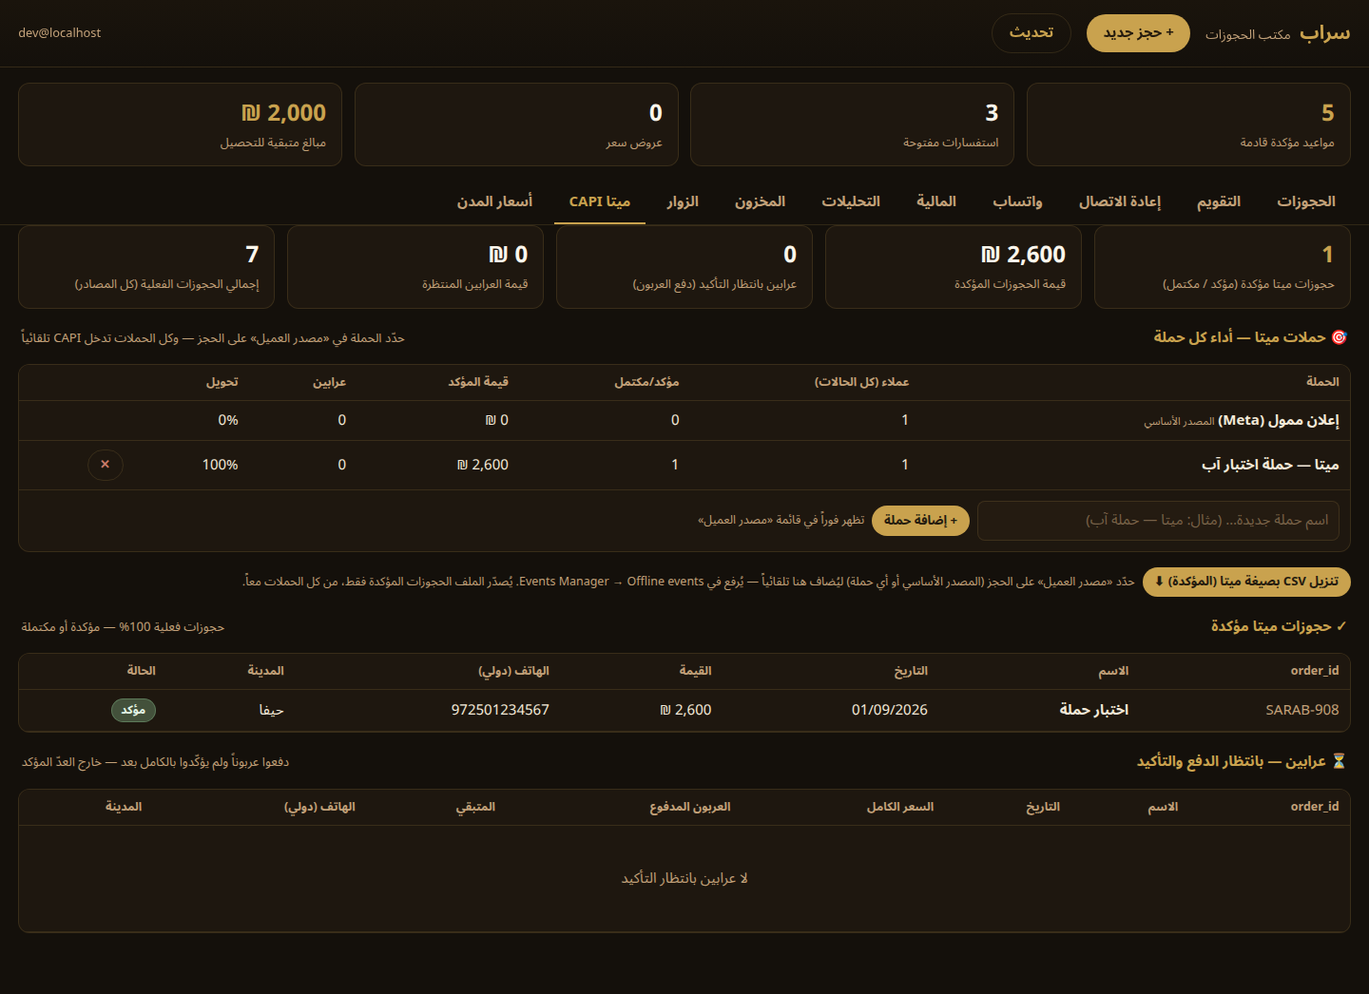
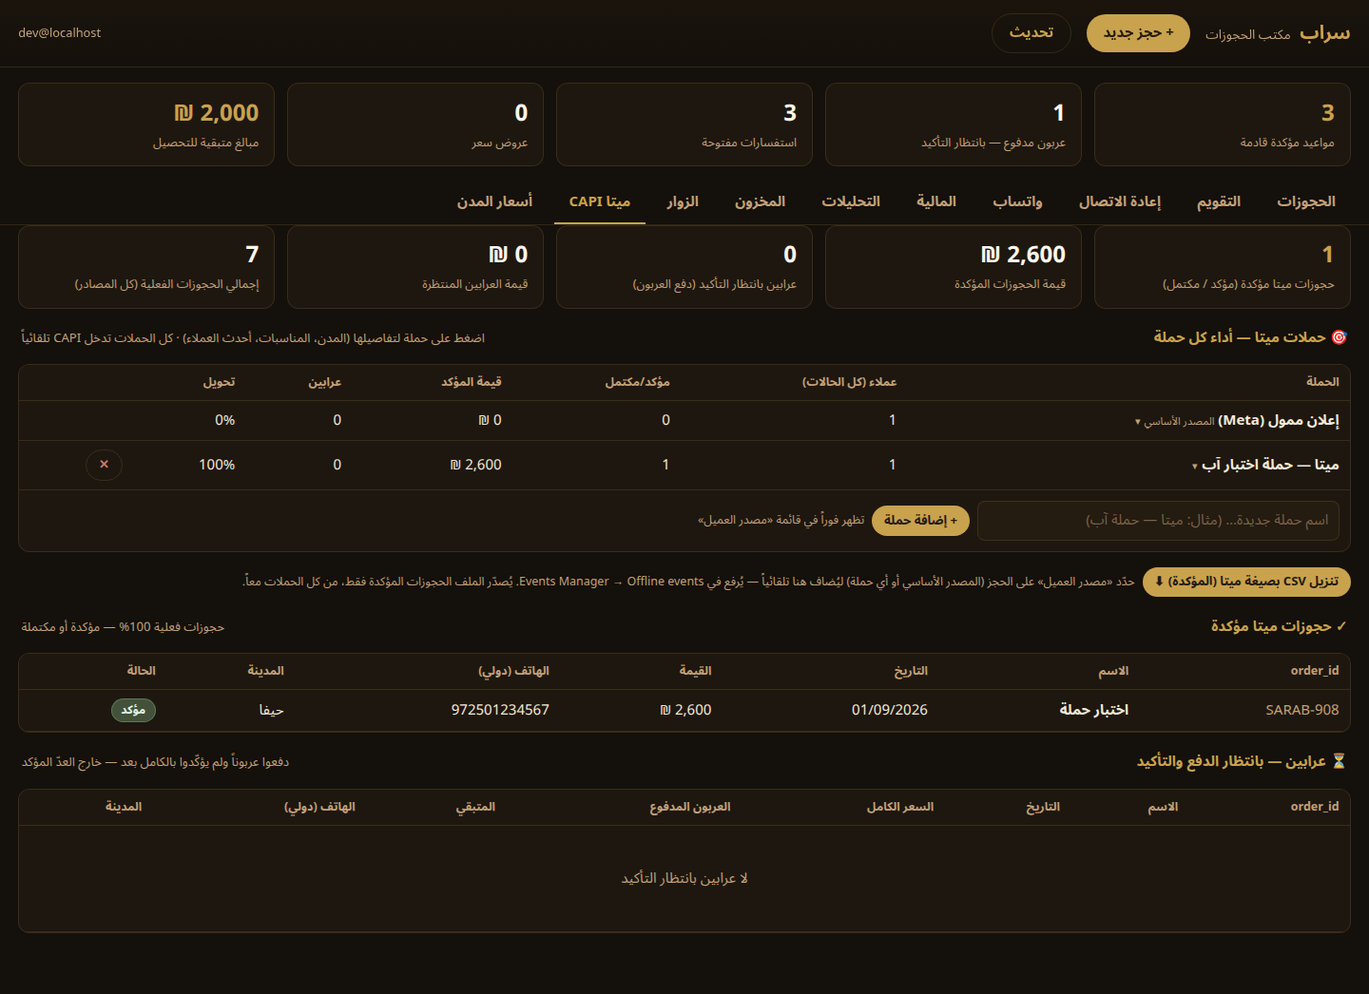
Office: client_city (سكن العميل) field + city×source analytics + expandable CAPI campaign rows

diff --git a/public/office/index.html b/public/office/index.html
@@ -1245,22 +1245,55 @@ function renderInsights() {
     ${insScope.year || insScope.month ? '<div class="secnote">العملاء هنا = من تاريخ مناسبتهم ضمن الفترة المختارة</div>' : ''}`)}
 
     ${sec('ins_cities', '🏙 المدن — من أين يأتي العمل؟',
-      `${s.cities.length} مدينة · مرتّبة حسب عدد العملاء`,
+      `${s.cities.length} مدينة · اضغط على مدينة لعرض مصادر عملائها`,
       `<div class="tablebox"><table style="min-width:0">
       <thead><tr><th>المدينة</th><th>العملاء</th><th>حجوزات فعلية</th><th>نسبة التحويل</th><th>الإيرادات (أسعار)</th></tr></thead>
-      <tbody>${s.cities.map((c) => `<tr>
-        <td><b>${esc(c.k)}</b></td>
+      <tbody>${s.cities.map((c, i) => {
+        const srcs = (s.city_sources || []).filter((x) => x.k === c.k);
+        return `<tr data-cx="${i}" style="cursor:pointer">
+        <td><b>${esc(c.k)}</b> <span class="muted" style="font-size:.68rem">▾ المصادر</span></td>
         <td class="num">${c.clients}</td>
         <td class="num">${c.booked}</td>
         <td class="num">${c.clients ? (c.booked / c.clients * 100).toFixed(0) : 0}%</td>
         <td class="num">${money(c.revenue)}</td>
-      </tr>`).join('') || '<tr><td colspan="5"><div class="empty">لا بيانات بعد</div></td></tr>'}</tbody>
+      </tr>
+      <tr data-cxd="${i}" style="display:none"><td colspan="5" style="background:var(--panel-2);padding:.5rem .8rem">
+        <b style="font-size:.78rem">من أين جاء عملاء ${esc(c.k)}؟</b>
+        <table style="min-width:0;margin-top:.35rem">
+          <thead><tr><th>المصدر</th><th>العملاء</th><th>حجوزات مؤكدة</th><th>الإيرادات</th></tr></thead>
+          <tbody>${srcs.map((x) => `<tr>
+            <td>${esc(x.src)}</td>
+            <td class="num">${x.clients}</td>
+            <td class="num">${x.booked}</td>
+            <td class="num">${money(x.revenue)}</td>
+          </tr>`).join('') || '<tr><td colspan="4"><div class="empty">لا بيانات مصدر</div></td></tr>'}</tbody>
+        </table>
+      </td></tr>`;
+      }).join('') || '<tr><td colspan="5"><div class="empty">لا بيانات بعد</div></td></tr>'}</tbody>
       ${s.cities.length ? `<tfoot><tr><td>المجموع (${s.cities.length} مدينة)</td>
         <td class="num">${sumCol(s.cities, 'clients')}</td>
         <td class="num">${sumCol(s.cities, 'booked')}</td>
         <td class="num">${conv}%</td>
         <td class="num">${money(sumCol(s.cities, 'revenue'))}</td></tr></tfoot>` : ''}
-    </table></div>`)}
+    </table>
+    <div class="secnote">المدينة هنا = مدينة المناسبة (مكان الحدث) · اضغط على أي مدينة لتفصيل مصادر عملائها — أين تنجح الإعلانات؟</div></div>`)}
+
+    ${sec('ins_ccity', '🏠 مدن العملاء — أين يسكنون؟',
+      (s.client_cities || []).length
+        ? `${s.client_cities.length} مدينة · حسب حقل «مدينة العميل (السكن)» في بطاقة الحجز`
+        : 'حقل جديد في بطاقة الحجز — يُعبّأ يدوياً',
+      (s.client_cities || []).length ? `<div class="tablebox"><table style="min-width:0">
+      <thead><tr><th>مدينة السكن</th><th>العملاء</th><th>حجوزات فعلية</th><th>الإيرادات (أسعار)</th></tr></thead>
+      <tbody>${s.client_cities.map((c) => `<tr>
+        <td><b>${esc(c.k)}</b></td>
+        <td class="num">${c.clients}</td>
+        <td class="num">${c.booked}</td>
+        <td class="num">${money(c.revenue)}</td>
+      </tr>`).join('')}</tbody>
+    </table>
+    <div class="secnote">يُحسب فقط لمن عُبّئت لهم «مدينة العميل» — مدينة المناسبة تبقى في الجدول أعلاه</div></div>`
+      : `<div class="empty" style="padding:1rem">حقل «مدينة العميل (السكن)» الجديد ما زال فارغاً.<br>
+         افتح أي حجز واكتب مدينة سكن العميل (حين تختلف عن مدينة المناسبة) — وسيظهر التحليل هنا تلقائياً.</div>`)}
 
     ${sec('ins_occ', '🎉 أنواع المناسبات',
       `${s.occasions.length} نوعاً · أيها يجلب أكثر حجوزات وإيرادات؟`,
@@ -1313,6 +1346,11 @@ function renderInsights() {
     setScope(insScope.year, r.dataset.mrow === insScope.month ? '' : r.dataset.mrow));
   // للتحصيل and بيانات ناقصة rows open the booking itself.
   $$('tr[data-open]', box).forEach((r) => r.onclick = () => openDrawerById(Number(r.dataset.open)));
+  // A city row unfolds its per-source breakdown right underneath.
+  $$('tr[data-cx]', box).forEach((r) => r.onclick = () => {
+    const d = $(`tr[data-cxd="${r.dataset.cx}"]`, box);
+    if (d) d.style.display = d.style.display === 'none' ? '' : 'none';
+  });
   $('#insCsv', box).onclick = () => {
     const q = (v) => `"${String(v ?? '').replace(/"/g, '""')}"`;
     const L = [];
@@ -1335,6 +1373,11 @@ function renderInsights() {
       s.made.map((r) => [r.k, r.n, r.dep]));
     sec(`المدن — ${scopeLabel}`, ['المدينة', 'العملاء', 'حجوزات مؤكدة', 'الإيرادات'],
       s.cities.map((c) => [c.k, c.clients, c.booked, c.revenue]));
+    sec(`المدن × المصدر — ${scopeLabel}`, ['المدينة', 'المصدر', 'العملاء', 'حجوزات مؤكدة', 'الإيرادات'],
+      (s.city_sources || []).map((r) => [r.k, r.src, r.clients, r.booked, r.revenue]));
+    if ((s.client_cities || []).length)
+      sec(`مدن العملاء (السكن) — ${scopeLabel}`, ['مدينة السكن', 'العملاء', 'حجوزات مؤكدة', 'الإيرادات'],
+        s.client_cities.map((c) => [c.k, c.clients, c.booked, c.revenue]));
     sec(`المناسبات — ${scopeLabel}`, ['النوع', 'العملاء', 'حجوزات مؤكدة', 'الإيرادات'],
       s.occasions.map((c) => [c.k, c.clients, c.booked, c.revenue]));
     sec(`المصادر — ${scopeLabel}`, ['المصدر', 'العملاء', 'حجوزات مؤكدة'],
@@ -1571,6 +1614,72 @@ function campaignStats() {
   return [...byCamp.values()];
 }
 
+// Every Meta booking belongs to exactly one campaign row — the one carried in مصدر
+// العميل, else the base Meta entry (same folding rule as campaignStats).
+function campaignRowsOf(camp) {
+  const named = new Set(metaSources());
+  return CAPI_ROWS.filter((r) => fromMeta(r) && (named.has(r.lead_source) ? r.lead_source : LEGACY_META) === camp);
+}
+
+// What unfolds under a campaign row: which cities the campaign actually books in
+// (the ad-targeting question), the clients' home cities once the owner fills them,
+// the occasions it attracts, the funnel by status, and the latest leads it brought.
+function campaignDetailHtml(camp) {
+  const rows = campaignRowsOf(camp);
+  if (!rows.length) return '<div class="empty">لا عملاء على هذه الحملة بعد</div>';
+  const agg = (field) => {
+    const m = new Map();
+    for (const r of rows) {
+      const k = String(r[field] || '').trim() || 'غير محدد';
+      const s = m.get(k) || { k, leads: 0, conf: 0, adv: 0, val: 0 };
+      s.leads++;
+      if (r.status === 'مؤكد' || r.status === 'مكتمل') { s.conf++; s.val += Number(r.price) || 0; }
+      else if (r.status === 'دفع العربون') s.adv++;
+      m.set(k, s);
+    }
+    return [...m.values()].sort((a, b) => b.conf - a.conf || b.leads - a.leads);
+  };
+  const mini = (title, rows2) => `<div class="tablebox" style="flex:1 1 240px;min-width:0">
+    <b style="display:block;padding:.45rem .7rem .1rem;font-size:.8rem">${title}</b>
+    <table style="min-width:0">
+      <thead><tr><th>المدينة/النوع</th><th>عملاء</th><th>مؤكد</th><th>عربون</th><th>قيمة المؤكد</th></tr></thead>
+      <tbody>${rows2.map((c) => `<tr>
+        <td>${esc(c.k)}</td>
+        <td class="num">${c.leads}</td>
+        <td class="num">${c.conf || ''}</td>
+        <td class="num">${c.adv || ''}</td>
+        <td class="num">${c.val ? money(c.val) : ''}</td>
+      </tr>`).join('')}</tbody>
+    </table></div>`;
+  const byStatus = new Map();
+  for (const r of rows) byStatus.set(r.status, (byStatus.get(r.status) || 0) + 1);
+  const homes = agg('client_city').filter((c) => c.k !== 'غير محدد');
+  const recent = [...rows]
+    .sort((a, b) => String(b.added_at || b.created_at || '').localeCompare(String(a.added_at || a.created_at || '')))
+    .slice(0, 8);
+  return `
+    <div class="chips" style="padding:.15rem 0 .45rem">${[...byStatus.entries()].map(([st, n]) =>
+      `<span class="chip" style="cursor:default">${esc(st)}: <b>${n}</b></span>`).join(' ')}</div>
+    <div style="display:flex;flex-wrap:wrap;gap:.6rem">
+      ${mini('🏙 مدن المناسبات — أين تحجز هذه الحملة؟', agg('city'))}
+      ${homes.length ? mini('🏠 مدن العملاء (السكن)', homes) : ''}
+      ${mini('🎉 أنواع المناسبات', agg('occasion'))}
+      <div class="tablebox" style="flex:1 1 280px;min-width:0">
+        <b style="display:block;padding:.45rem .7rem .1rem;font-size:.8rem">🕓 أحدث العملاء — اضغط لفتح الحجز</b>
+        <table style="min-width:0">
+          <thead><tr><th>الاسم</th><th>تاريخ المناسبة</th><th>المدينة</th><th>الحالة</th><th>السعر</th></tr></thead>
+          <tbody>${recent.map((r) => `<tr data-open="${r.id}" style="cursor:pointer">
+            <td><b>${esc(fullName(r) || '—')}</b></td>
+            <td class="num">${dmy(r.event_date)}</td>
+            <td>${esc(r.city || '—')}</td>
+            <td>${badge(r.status)}</td>
+            <td class="num">${money(r.price)}</td>
+          </tr>`).join('')}</tbody>
+        </table></div>
+    </div>
+    ${homes.length ? '' : '<div class="secnote">💡 حقل «مدينة العميل (السكن)» الجديد فارغ بعد — عبِّئه في بطاقة الحجز ليظهر هنا تحليل مدن السكن أيضاً</div>'}`;
+}
+
 async function addCampaign() {
   const inp = $('#campName');
   const v = (inp.value || '').trim();
@@ -1599,18 +1708,19 @@ function renderCapi() {
       <div class="kpi"><b>${CAPI_ALL}</b><span>إجمالي الحجوزات الفعلية (كل المصادر)</span></div>
     </section>
 
-    <div class="finhead"><b>🎯 حملات ميتا — أداء كل حملة</b><span class="muted">حدّد الحملة في «مصدر العميل» على الحجز — وكل الحملات تدخل CAPI تلقائياً</span></div>
+    <div class="finhead"><b>🎯 حملات ميتا — أداء كل حملة</b><span class="muted">اضغط على حملة لتفاصيلها (المدن، المناسبات، أحدث العملاء) · كل الحملات تدخل CAPI تلقائياً</span></div>
     <div class="tablebox"><table style="min-width:0">
       <thead><tr><th>الحملة</th><th>عملاء (كل الحالات)</th><th>مؤكد/مكتمل</th><th>قيمة المؤكد</th><th>عرابين</th><th>تحويل</th><th></th></tr></thead>
-      <tbody>${campaignStats().map((s) => `<tr>
-        <td><b>${esc(s.camp)}</b>${s.camp === LEGACY_META ? ' <span class="muted" style="font-size:.7rem">المصدر الأساسي</span>' : ''}</td>
+      <tbody>${campaignStats().map((s, i) => `<tr data-camprow="${i}" data-camp="${esc(s.camp)}" style="cursor:pointer">
+        <td><b>${esc(s.camp)}</b>${s.camp === LEGACY_META ? ' <span class="muted" style="font-size:.7rem">المصدر الأساسي</span>' : ''} <span class="muted" style="font-size:.68rem">▾</span></td>
         <td class="num">${s.leads}</td>
         <td class="num">${s.conf}</td>
         <td class="num">${money(s.confVal)}</td>
         <td class="num">${s.adv}</td>
         <td class="num">${s.leads ? Math.round(100 * s.conf / s.leads) + '%' : '—'}</td>
         <td>${s.camp === LEGACY_META ? '' : `<button class="btn btn--sm btn--danger campDel" data-camp="${esc(s.camp)}">✕</button>`}</td>
-      </tr>`).join('')}</tbody>
+      </tr>
+      <tr data-campdet="${i}" style="display:none"><td colspan="7" style="background:var(--panel-2);padding:.55rem .8rem"></td></tr>`).join('')}</tbody>
     </table>
     <div class="addrow">
       <input id="campName" placeholder="اسم حملة جديدة… (مثال: ميتا — حملة آب)">
@@ -1653,7 +1763,22 @@ function renderCapi() {
     </table></div>`;
   $('#campAdd').onclick = addCampaign;
   $('#campName').onkeydown = (e) => { if (e.key === 'Enter') addCampaign(); };
-  $$('.campDel', box).forEach((b) => b.onclick = async () => {
+  // A campaign row unfolds its detail panel — built lazily on first open.
+  $$('tr[data-camprow]', box).forEach((tr) => tr.onclick = () => {
+    const det = $(`tr[data-campdet="${tr.dataset.camprow}"]`, box);
+    if (!det) return;
+    if (det.style.display === 'none') {
+      const cell = det.firstElementChild;
+      if (!cell.dataset.built) {
+        cell.innerHTML = campaignDetailHtml(tr.dataset.camp);
+        cell.dataset.built = '1';
+        $$('tr[data-open]', cell).forEach((r) => r.onclick = (ev) => { ev.stopPropagation(); openDrawerById(Number(r.dataset.open)); });
+      }
+      det.style.display = '';
+    } else det.style.display = 'none';
+  });
+  $$('.campDel', box).forEach((b) => b.onclick = async (ev) => {
+    ev.stopPropagation();   // the row's own click opens the detail panel — deleting shouldn't
     const v = b.dataset.camp;
     if (!confirm(`حذف الحملة «${v}» من القائمة؟\nالحجوزات المسجّلة عليها تحتفظ بالمصدر، لكنها لن تُحسب ضمن ميتا CAPI بعد الحذف.`)) return;
     try {
@@ -1724,7 +1849,9 @@ const F = [
   ['booking_no', 'رقم الحجز', 'ro'],
   ['status', 'الحالة', 'select:status'],
   ['first_name', 'الاسم الأول'], ['last_name', 'اسم العائلة'],
-  ['phone', 'الهاتف / واتساب'], ['city', 'المدينة', 'list:cities'],
+  ['phone', 'الهاتف / واتساب'], ['city', 'مدينة المناسبة (مكان الحدث)', 'list:cities'],
+  // سكن العميل حين يختلف عن مدينة المناسبة — حقل جديد (2026-08-24)، يُعبّأ يدوياً
+  ['client_city', 'مدينة العميل (السكن)', 'list:cities'],
   ['occasion', 'نوع المناسبة', 'combo:occasion'], ['venue', 'القاعة / المكان', 'list:venues'],
   ['event_date', 'تاريخ المناسبة', 'date'], ['added_at', 'تاريخ الإضافة (أول تواصل)', 'date'],
   ['booked_at', 'تاريخ الحجز (يُسجَّل تلقائياً عند التأكيد)', 'date'],
@@ -1763,7 +1890,8 @@ function fieldHtml([key, label, kind]) {
       : name === 'venues' ? (state.meta.venues || [])
       : name === 'staff' ? (state.meta.staff || [])
       : (state.meta.options[name] || []);
-    input = `<input id="f_${key}" list="dl_${name}"><datalist id="dl_${name}">${opts.map((o) => `<option value="${esc(o)}">`).join('')}</datalist>`;
+    // datalist id per FIELD, not per list — مدينة المناسبة ومدينة العميل تتشاركان قائمة المدن
+    input = `<input id="f_${key}" list="dl_${key}"><datalist id="dl_${key}">${opts.map((o) => `<option value="${esc(o)}">`).join('')}</datalist>`;
   } else input = `<input id="f_${key}">`;
   return `<div class="field${full}"><label for="f_${key}">${label}</label>${input}</div>`;
 }
@@ -2109,7 +2237,7 @@ $('#scrim').onclick = closeDrawer;
 $('#newBtn').onclick = () => openDrawer(null);
 $('#refreshBtn').onclick = () => Promise.all([loadMeta(), loadRows()]).then(() => toast('تم التحديث ✓'));
 $('#csvBtn').onclick = () => {
-  const cols = ['booking_no','name','first_name','last_name','phone','event_date','occasion','city','region','venue',
+  const cols = ['booking_no','name','first_name','last_name','phone','event_date','occasion','city','client_city','region','venue',
     'status','payment_status','price','deposit','remaining','staff','staff_count',
     'lead_source','interest','callback','notes','source','lang','created_at'];
   const csv = [cols.join(',')]

diff --git a/functions/office/api/insights.js b/functions/office/api/insights.js
@@ -44,7 +44,7 @@ export async function onRequestGet({ request, env }) {
   const upcoming = "event_date >= date('now')"
   const noVal = (col) => `(${col} IS NULL OR TRIM(${col}) = '')`
   const [kpi, booked, deposit, years, months, made, collections, gaps,
-    cities, occasions, sources, weekdays, venues] = await env.DB.batch([
+    cities, occasions, sources, weekdays, venues, citySources, clientCities] = await env.DB.batch([
     env.DB.prepare(`SELECT
       SUM(CASE WHEN status != 'ملغي' THEN 1 ELSE 0 END) AS clients,
       SUM(CASE WHEN ${isConf} THEN 1 ELSE 0 END) AS booked,
@@ -137,6 +137,22 @@ export async function onRequestGet({ request, env }) {
     env.DB.prepare(`SELECT TRIM(venue) AS k, COUNT(*) AS n
       FROM bookings WHERE ${isConf} AND venue IS NOT NULL AND TRIM(venue) != '' ${scope}
       GROUP BY k ORDER BY n DESC, k LIMIT 12`),
+    // المدن × المصدر: where each city's clients come from — the ad-targeting view that
+    // expands under a city row in the المدن table. Same scope as that table.
+    env.DB.prepare(`SELECT ${gk('city')} AS k, ${gk('lead_source')} AS src,
+      COUNT(*) AS clients,
+      SUM(CASE WHEN ${isConf} THEN 1 ELSE 0 END) AS booked,
+      COALESCE(SUM(CASE WHEN ${isConf} THEN price END), 0) AS revenue
+      FROM bookings WHERE status != 'ملغي' ${scope}
+      GROUP BY k, src ORDER BY k, clients DESC, src`),
+    // مدينة العميل (السكن) — hand-filled since 2026-08-24, so only rows that carry it;
+    // the event's city stays in `city` and keeps driving pricing and the table above.
+    env.DB.prepare(`SELECT TRIM(client_city) AS k,
+      COUNT(*) AS clients,
+      SUM(CASE WHEN ${isConf} THEN 1 ELSE 0 END) AS booked,
+      COALESCE(SUM(CASE WHEN ${isConf} THEN price END), 0) AS revenue
+      FROM bookings WHERE status != 'ملغي' AND client_city IS NOT NULL AND TRIM(client_city) != '' ${scope}
+      GROUP BY k ORDER BY clients DESC, booked DESC, k`),
   ])
   return Response.json({
     ok: true,
@@ -154,5 +170,7 @@ export async function onRequestGet({ request, env }) {
     sources: sources.results,
     weekdays: weekdays.results,
     venues: venues.results,
+    city_sources: citySources.results,
+    client_cities: clientCities.results,
   })
 }

diff --git a/functions/office/api/bookings.js b/functions/office/api/bookings.js
@@ -9,7 +9,7 @@ import { displayName } from '../../../shared/names.js'
 // Fields the office may write. Numbers are coerced; anything else is text.
 const WRITABLE = [
   'booked_at', 'added_at', 'event_date', 'occasion', 'first_name', 'last_name', 'name', 'phone',
-  'email', 'city', 'region', 'venue', 'start_time', 'end_time', 'hours', 'guests',
+  'email', 'city', 'client_city', 'region', 'venue', 'start_time', 'end_time', 'hours', 'guests',
   'package', 'price', 'deposit', 'remaining', 'payment_status', 'arrival_time',
   'staff', 'staff_count', 'lead_source', 'interest', 'callback', 'notes', 'status',
 ]

diff --git a/functions/office/api/bookings/[id].js b/functions/office/api/bookings/[id].js
@@ -9,7 +9,7 @@ import { syncBookingCalendar, removeBookingCalendar } from '../../../../shared/g
 
 const WRITABLE = [
   'booked_at', 'added_at', 'event_date', 'occasion', 'first_name', 'last_name', 'name', 'phone',
-  'email', 'city', 'region', 'venue', 'start_time', 'end_time', 'hours', 'guests',
+  'email', 'city', 'client_city', 'region', 'venue', 'start_time', 'end_time', 'hours', 'guests',
   'package', 'price', 'deposit', 'remaining', 'payment_status', 'arrival_time',
   'staff', 'staff_count', 'lead_source', 'interest', 'callback', 'notes', 'status',
 ]

diff --git a/docs/05-DEPLOY-AND-BACKEND.md b/docs/05-DEPLOY-AND-BACKEND.md
@@ -934,3 +934,34 @@ event 29.07 + SARAB-025 event 02.08, 300 ₪ each).
   deltas both ways, derived remaining skips tips, tip never enters P&L, kpi.tips,
   kind=إكرامية filter, UI tip record leaves العربون/المتبقي standing + header shows
   the tip apart). All pass locally.
+
+### 2026-08-24 — مدينة العميل (السكن) + city/source analytics + expandable CAPI campaign rows
+
+Owner asked for (a) city analytics that show **where bookings come from** per city (to
+steer ad spend), (b) a new per-client field for the city the client **lives in** — the
+event's city stays in `city` and keeps driving pricing, but "people from one city book
+a hall in another" was being lost — added empty, the owner fills it by hand, and (c)
+campaign rows in the ميتا CAPI tab that **expand on click** with useful detail.
+
+- Migration `db/migrations/2026-08-24-client-city.sql`: `bookings.client_city TEXT`
+  (additive only). Remote apply on backup `ops/db-backups/2026-08-24-pre-client-city/`
+  — diff-verified 352/352 rows byte-identical, new column all NULL.
+- Drawer: `city` relabeled «مدينة المناسبة (مكان الحدث)», new «مدينة العميل (السكن)»
+  right beside it (both share the cities datalist; datalist ids are now per-field).
+  Both offices' WRITABLE lists + the bookings CSV export carry `client_city`.
+  Website/WhatsApp lead creation never fills it — hand-entry only, by design.
+- `/office/api/insights` grew `city_sources` (city × lead_source: clients, booked,
+  revenue — same scope as the المدن table) and `client_cities` (only rows where the
+  new field is filled). التحليلات: each city row in المدن now unfolds a per-source
+  breakdown ("أين تنجح الإعلانات؟"), new 🏠 «مدن العملاء — أين يسكنون؟» section
+  (self-explaining empty state until the field is filled), both in the insights CSV.
+- ميتا CAPI: clicking a campaign row unfolds (lazily) its detail panel — status chips,
+  event-city table (leads/confirmed/deposits/value per city), client home-city table
+  once filled, occasion table, and the 8 latest clients (each opens the drawer). The
+  ✕ delete button stops propagation so it no longer competes with the row click.
+- Tests: `_vinsights.mjs` (21) + `_vcampaign.mjs` still pass; new `_vccity.mjs`
+  (port 8794, 13 checks): client_city POST/PATCH round-trip, insights city_sources /
+  client_cities math, drawer field + labels, city-row expansion, 🏠 section, CAPI
+  campaign expansion content + toggle + drawer click-through.
+- Deploy `cbc0f0a2` verified: apex/www 200, /office + API 302 to Access, both Pages
+  secrets intact.
